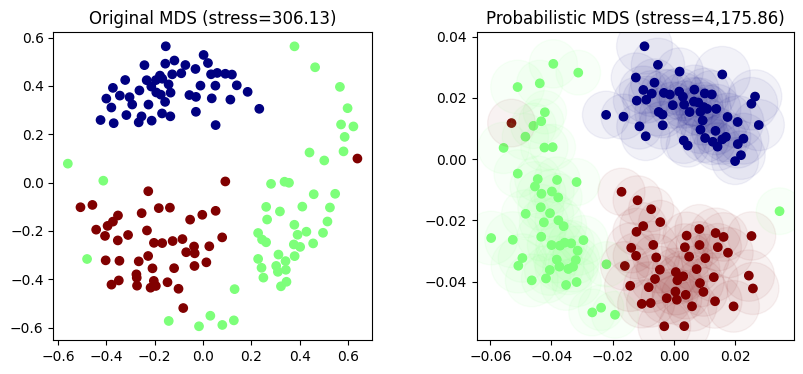
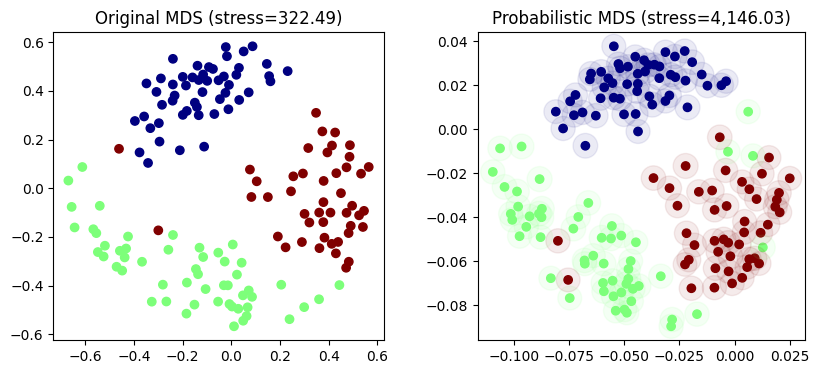
add W&B log, WIP debug tau

diff --git a/pmds/lv_pmds.py b/pmds/lv_pmds.py
@@ -1,21 +1,22 @@
 # Latent variable Probabilistic MDS
-from time import time
 import random
+from functools import partial
 from itertools import combinations
+from time import time
 
 import jax
 import jax.numpy as jnp
-from jax.numpy.lax_numpy import zeros
-import mlflow
 import numpy as np
+from jax.numpy.lax_numpy import zeros
 from jax.scipy.special import i0e  # xlogy, gammaln, i0e, i1e
 from jax.scipy.stats import gamma, multivariate_normal
 
+import wandb
+
 from .score import stress
 
-
 DISABLE_JIT = False
-EPSILON = 1e-6
+EPSILON = 1e-5
 SCALE = 1
 FIXED_RATE = 1.0 / 1e-3
 
@@ -25,10 +26,13 @@ ones2 = jnp.ones((2,))
 zeros2 = jnp.zeros((2,))
 
 
+hist = wandb.Histogram
+
+
 def log_likelihood_one_pair(mu_i, mu_j, tau_i, tau_j, D):
-    tau_ij_inv = tau_i * tau_j / (tau_i + tau_j + EPSILON)
+    tau_ij_inv = tau_i * tau_j / (tau_i + tau_j)
     log_tau_ij_inv = jnp.log(tau_i) + jnp.log(tau_j) - jnp.log(tau_i + tau_j)
-    d_ij = jnp.linalg.norm(mu_i - mu_j) + EPSILON
+    d_ij = jnp.linalg.norm(mu_i - mu_j)
 
     log_llh = (
         jnp.log(D)
@@ -82,22 +86,23 @@ def lv_pmds(
     init_mu=None,
     hard_fix=False,
     method="LV",
+    mu0=[0.0, 0.0],
     beta=10.0,
-    gamma_shape=1.0,
+    gamma_shape=0.1,
     gamma_rate=1.0,
+    alpha=0.1,  # contribution of log prior
 ):
     assert n_components in [2, 4]
 
     # init `mu` and `tau`. Transform unconstrained tau `tau_unc` to  constrained`tau`.
     # https://github.com/tensorflow/probability/issues/703
     key_m, key_tau = jax.random.split(jax.random.PRNGKey(random_state))
-    tau_unc = jax.random.normal(key_tau, (n_samples,))
+    tau_unc = -4.0 * jnp.abs(jax.random.normal(key_tau, (n_samples,)))
     # tau_unc = jnp.ones((n_samples,))
     if init_mu is not None and init_mu.shape == (n_samples, n_components):
         mu = jnp.array(init_mu)
     else:
         mu = jax.random.normal(key_m, (n_samples, n_components))
-    mu0 = jnp.array([0.0, 0.0])
 
     # # fixed points
     # if fixed_points:
@@ -122,6 +127,7 @@ def lv_pmds(
     all_mu = []
 
     for epoch in range(epochs):
+        lazylog = lambda d: wandb.log(d, commit=False, step=epoch)
         tic = time()
 
         # shuffle the observed pairs in each epoch
@@ -144,13 +150,14 @@ def lv_pmds(
 
         # calculate loss and gradients of prior term
         loss_log_prior, grads_log_prior = loss_and_grads_log_prior(
-            mu, tau, mu0, beta, gamma_shape, gamma_rate
+            mu, tau, jnp.array(mu0), beta, gamma_shape, gamma_rate
         )
 
         # accumulate log likelihood and log prior
         loss0 = float(jnp.mean(loss_lllh))
         loss1 = float(jnp.mean(loss_log_prior))
-        loss = loss0 + loss1
+        loss = loss0 + alpha * loss1
+
         all_loss.append(loss)
         all_log_llh.append(loss0)
         all_log_prior.append(loss1)
@@ -167,7 +174,7 @@ def lv_pmds(
 
         # update gradient for mu
         mu = jax.ops.index_add(mu, related_indices, lr * grads_mu1)
-        mu = mu + lr * grads_mu2
+        mu = mu + alpha * lr * grads_mu2
 
         # update gradient for constrained variable `tau`
         # but we can not update directly on constrained `tau`
@@ -179,7 +186,7 @@ def lv_pmds(
         grads_tau_unc2 = grads_tau2 * jax.nn.sigmoid(SCALE * tau_unc) * SCALE
         # then, update the unconstrained variable tau_unc
         tau_unc = jax.ops.index_add(tau_unc, related_indices, lr * grads_tau_unc1)
-        tau_unc = tau_unc + lr * grads_tau_unc2
+        tau_unc = tau_unc + alpha * lr * grads_tau_unc2
         # in the next iteration, the constrained `tau` will be transformed from `tau_unc`
 
         # # correct gradient for fixed points
@@ -190,21 +197,34 @@ def lv_pmds(
         mds_stress = (
             stress(debug_D_squareform, mu) if debug_D_squareform is not None else 0.0
         )
-
-        # mlflow.log_metric("loss", loss)
-        # mlflow.log_metric("stress", mds_stress)
         print(
-            f"[DEBUG] epoch {epoch}, loss: {-loss:,.0f}, stress: {mds_stress:,.2f}, "
-            f"tau: {float(jnp.mean(tau)):.1f}, in {(time() - tic):.2f}s"
-            # f" mu in [{float(jnp.min(mu)):.3f}, {float(jnp.max(mu)):.3f}], "
-            # f" ss_unc in [{float(jnp.min(ss_unc)):.3f}, {float(jnp.max(ss_unc)):.3f}]"
+            f"[DEBUG] epoch {epoch}, loss: {-loss:,.2f}, stress: {mds_stress:,.2f},"
+            f" in {(time() - tic):.2f}s"
         )
+        total_time += time() - tic
 
         # if epoch in [1, 2, 3, 8, epochs - 8, epochs - 3, epochs - 1]:
         all_mu.append({"epoch": epoch, "Z": mu})
-        total_time += time() - tic
 
-    tau = EPSILON + jax.nn.softplus(SCALE * tau_unc)
+        lazylog({"loss": loss, "lllh": loss0, "lprior": loss1, "stress": mds_stress})
+        lazylog(
+            {
+                "tau": np.array(tau),
+                "std": np.sqrt(1.0 / tau),
+                "grad_tau1": hist(grads_tau1),
+                "grad_tau_unc1": hist(grads_tau_unc1),
+                "grad_tau2": hist(grads_tau2),
+                "grad_tau_unc2": hist(grads_tau_unc2),
+                "grad_mu11": hist(grads_mu1[:, 0]),
+                "grad_mu12": hist(grads_mu1[:, 1]),
+                "grad_mu21": hist(grads_mu2[:, 0]),
+                "grad_mu22": hist(grads_mu2[:, 1]),
+            }
+        )
 
     print(f"DONE: final loss: {loss:,.0f}, {epochs} epochs in {total_time:.2f}s")
-    return mu, tau, [all_loss, all_log_llh, all_log_prior], all_mu
+    wandb.log({"total_loss": loss})
+
+    tau = EPSILON + jax.nn.softplus(SCALE * tau_unc)
+    std = np.sqrt(1.0 / tau)
+    return mu, std, [all_loss, all_log_llh, all_log_prior], all_mu

diff --git a/run_pmds.py b/run_pmds.py
@@ -1,7 +1,7 @@
 # import numpy as np
 import random
 from itertools import combinations
-import mlflow
+import wandb
 
 from sklearn.manifold import MDS
 from scipy.spatial.distance import squareform
@@ -60,7 +60,7 @@ def run_pdms(D, N, args, labels=None):
         "MAP": pmds_MAP,  # simple gaussian prior for mu and uniform for sigma square
         "LV": lv_pmds,  # conjugate prior for (mu, precision) using Gaussian-Gamma dist.
     }[args.method_name]
-    Z1, Z1_vars, all_losses, all_mu = pmds_method(
+    Z1, Z1_std, all_losses, all_mu = pmds_method(
         dists_with_indices,
         n_samples=N,
         n_components=args.n_components,
@@ -98,7 +98,7 @@ def run_pdms(D, N, args, labels=None):
         f"MDS with jax (stress={s2:,.2f})",
     ]
     plot.compare_scatter(
-        Z0, Z1, None, Z1_vars, labels, titles[:-1], out_name=f"{plot_dir}/Z.png"
+        Z0, Z1, None, Z1_std, labels, titles[:-1], out_name=f"{plot_dir}/Z.png"
     )
     plot.compare_scatter(
         Z0, Z2, None, None, labels, titles[::2], out_name=f"{plot_dir}/Zjax.png"
@@ -150,7 +150,5 @@ if __name__ == "__main__":
         normalize_dists=args.normalize_dists,
     )
 
-    mlflow.set_experiment(f"pmds_{method_name}")
-    with mlflow.start_run(run_name=dataset_name):
-        mlflow.log_params(vars(args))
-        res = run_pdms(D, N, args=args, labels=labels)
+    wandb.init(project=f"PMDS_{method_name}_v0.1", config=args)
+    run_pdms(D, N, args=args, labels=labels)

diff --git a/pmds/plot.py b/pmds/plot.py
@@ -47,14 +47,14 @@ def plot_debug_Z(all_Z, labels=None, out_name="Zdebug.png", magnitude_factor=1.0
     fig.savefig(out_name)
 
 
-def scatter(Z, Z_vars=None, labels=None, title="", ax=None, out_name="Z.png"):
+def scatter(Z, Z_std=None, labels=None, title="", ax=None, out_name="Z.png"):
     fig, ax = plt.subplots(1, 1, figsize=(6, 6)) if ax is None else (None, ax)
     ax.set_aspect("equal")
     # ax.set_xticks([])
     # ax.set_yticks([])
     cmap = "tab10" if (labels is not None and len(np.unique(labels)) > 5) else "jet"
 
-    p = {} if Z_vars is None else {"marker": "+"}
+    p = {} if Z_std is None else {"marker": "+"}
     if labels is None:
         ...
     elif isinstance(labels[0], str):
@@ -66,9 +66,9 @@ def scatter(Z, Z_vars=None, labels=None, title="", ax=None, out_name="Z.png"):
     ax.set_title(title)
     ax.scatter(*Z.T, **p)
 
-    if Z_vars is not None and Z_vars.shape == (Z.shape[0],):
+    if Z_std is not None and Z_std.shape == (Z.shape[0],):
         p.update({"marker": "o"})
-        ax.scatter(*Z.T, s=Z_vars * 500, alpha=0.05, **p)
+        ax.scatter(*Z.T, s=Z_std * 500, alpha=0.08, **p)
 
     if fig is not None:
         fig.savefig(out_name, bbox_inches="tight", transparent=True)

diff --git a/pmds/config.py b/pmds/config.py
@@ -305,8 +305,8 @@ pre_config = {
             n_samples=150,  # None for all 537 data points of classes [0 ,1, 2]
             n_components=2,
             batch_size=0,
-            epochs=100,
-            learning_rate=8e-4,
+            epochs=150,
+            learning_rate=1e-3,
             # missing_pairs=0.5,
             random_state=2020,
             std=False,  # digits already in [0, 1]
@@ -404,8 +404,8 @@ pre_config = {
             n_samples=None,  # 437,
             n_components=2,
             batch_size=0,
-            epochs=50,
-            learning_rate=3e-4,
+            epochs=200,
+            learning_rate=1e-4,
             random_state=42,
             std=False,
             pca=None,
